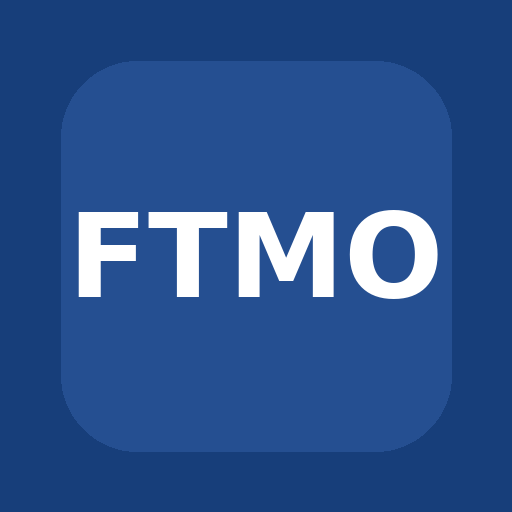
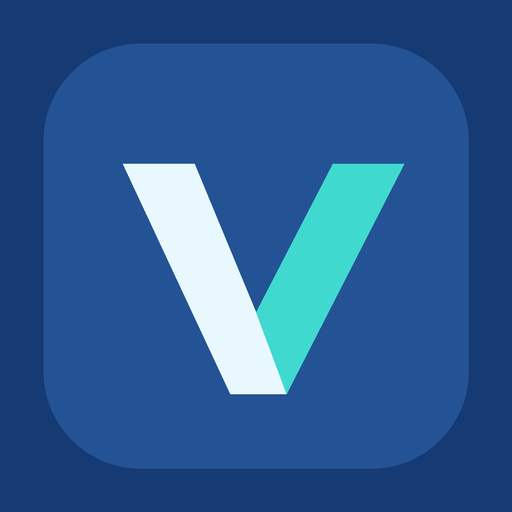
Add files via upload

Changed region(s): [[0.0625, 0.0625, 0.9375, 0.9375]]

diff --git a/index.html b/index.html
@@ -1,1 +1,1 @@
-<!doctype html><html lang="en"><head><meta charset="utf-8"><meta name="viewport" content="width=device-width,initial-scale=1,viewport-fit=cover"><meta name="theme-color" content="#10233f"><link rel="manifest" href="manifest.webmanifest"><link rel="icon" href="icon-192.png" sizes="192x192"><title>FTMO Quick Trade Calculator</title><style>:root{font-family:system-ui,-apple-system,Arial,sans-serif;color:#14243c;background:#eef3f9}*{box-sizing:border-box}body{margin:0;padding:14px}.app{max-width:510px;margin:auto;background:white;border-radius:18px;padding:18px;box-shadow:0 6px 26px #10233f18}h1{font-size:22px;margin:0 0 5px}small,.note{color:#596b7f}header{display:flex;justify-content:space-between;align-items:center;gap:8px;margin-bottom:16px}.tag{background:#e9f1ff;padding:7px 10px;border-radius:20px;font-size:12px;font-weight:800}.toggle,.presets{display:flex;gap:8px;margin:12px 0}.toggle button,.presets button{flex:1}button{border:1px solid #c9d5e5;background:#f5f8fd;color:#10233f;border-radius:10px;padding:12px 9px;font-weight:750;cursor:pointer}button.active{background:#173e7a;color:white;border-color:#173e7a}button:disabled{opacity:.45}label{display:block;font-weight:650;font-size:13px;margin:13px 0 6px}input,select{width:100%;border:1px solid #bfcbda;border-radius:10px;padding:13px;font-size:18px;background:white;color:#10233f}.two{display:grid;grid-template-columns:1fr 1fr;gap:12px}.results{background:#f0f5fb;border-radius:14px;padding:12px;margin-top:17px}.result{display:flex;align-items:center;justify-content:space-between;gap:10px;padding:10px 0;border-bottom:1px solid #d9e2ee}.result:last-child{border:0}.value{font-size:25px;font-weight:800;font-variant-numeric:tabular-nums}.copy{background:#17498f;color:white;border:0;min-width:104px}.metrics{display:grid;grid-template-columns:1fr 1fr;gap:10px;margin-top:15px}.metric{padding:12px;border:1px solid #e1e8f0;border-radius:12px}.metric b{display:block;font-size:20px;margin-top:5px}.green{color:#127044}.full{width:100%;margin-top:14px}.note{font-size:12px;line-height:1.5;margin:15px 0 0}.error{color:#b42318;font-size:13px;min-height:16px;margin-top:8px}#toast{position:fixed;bottom:24px;left:50%;transform:translateX(-50%);background:#14243c;color:white;padding:10px 18px;border-radius:24px;display:none;white-space:nowrap}body[data-theme="dark"]{background:#0b1220;color:#eaf0fb}body[data-theme="dark"] .app{background:#172235;box-shadow:0 6px 28px #0005}body[data-theme="dark"] small,body[data-theme="dark"] .note{color:#afbed1}body[data-theme="dark"] .tag{background:#263d60;color:#eaf0fb}body[data-theme="dark"] button{background:#26364e;border-color:#40516b;color:#f1f5ff}body[data-theme="dark"] button.active{background:#3972cb;border-color:#3972cb;color:white}body[data-theme="dark"] .copy{background:#3972cb;color:white;border-color:#3972cb}body[data-theme="dark"] input,body[data-theme="dark"] select{background:#101b2d;color:#f1f5ff;border-color:#465a74}body[data-theme="dark"] .results{background:#202f45}body[data-theme="dark"] .result{border-color:#40516b}body[data-theme="dark"] .metric{border-color:#40516b}body[data-theme="dark"] .green{color:#67dda2}body[data-theme="dark"] .error{color:#ff9d95}.theme-choice{display:flex;align-items:center;justify-content:space-between;gap:10px;margin:0 0 12px}.theme-choice small{font-weight:700}.theme-choice select{width:auto;font-size:14px;padding:8px 12px}body[data-theme="dark"] #toast{background:#eaf0fb;color:#172235}</style></head><body><main class="app"><div class="theme-choice"><small>BACKGROUND THEME</small><select id="theme" aria-label="Background theme" onchange="setTheme(this.value)"><option value="light">☀ White</option><option value="dark">☾ Dark</option></select></div><header><div><h1>FTMO Quick Trade Calculator</h1><small>Mobile • Copy & paste into MT5</small></div><span class="tag">EUR/USD</span></header><div class="toggle"><button id="buy" class="active" onclick="changeSide('buy')">BUY</button><button id="sell" onclick="changeSide('sell')">SELL</button></div><label for="risk">Risk amount (USD)</label><input id="risk" type="number" inputmode="decimal" min="0.01" step="any" value="20"><div class="presets"><button onclick="setRisk(10)">$10</button><button onclick="setRisk(20)">$20</button><button onclick="setRisk(50)">$50</button><button onclick="setRisk(100)">$100</button></div><label for="entry">Entry price</label><input id="entry" type="number" inputmode="decimal" min="0" step="0.00001" placeholder="Example: 1.16500"><div class="two"><div><label for="pips">Stop loss (pips)</label><input id="pips" type="number" inputmode="decimal" min="0.1" step="any" value="20"></div><div><label for="rr">Risk / Reward</label><select id="rr"><option value="1">1:1</option><option value="1.5">1:1.5</option><option value="2" selected>1:2</option><option value="3">1:3</option></select></div></div><div id="error" class="error" role="status"></div><section class="results"><small><b>MT5 COPY & PASTE</b></small><div class="result"><div><small>STOP LOSS</small><div class="value" id="sl">—</div></div><button class="copy" id="copySl" onclick="copyValue('sl')">Copy SL</button></div><div class="result"><div><small>TAKE PROFIT</small><div class="value" id="tp">—</div></div><button class="copy" id="copyTp" onclick="copyValue('tp')">Copy TP</button></div><div class="result"><div><small>LOT SIZE</small><div class="value" id="lots">—</div></div><button class="copy" id="copyLots" onclick="copyValue('lots')">Copy Lots</button></div></section><div class="metrics"><div class="metric"><small>Estimated loss at SL</small><b id="loss">—</b></div><div class="metric"><small>Potential profit at TP</small><b id="profit" class="green">—</b></div></div><button class="full" id="copyAll" onclick="copyTrade()">Copy Entire Trade</button><p class="note">For EUR/USD in a USD-denominated FTMO account, assuming approximately $10 per pip per standard lot and 0.01 lot increments. Estimates exclude commissions, spread, slippage and price movement. Actual loss can exceed your chosen risk. Verify the current market price, lot size, SL and TP in MT5 before placing an order. This calculator does not place trades.</p></main><div id="toast" role="status">Copied!</div><script>let side='buy';let current={};function setTheme(theme){document.body.dataset.theme=theme;document.getElementById('theme').value=theme;document.querySelector('meta[name=theme-color]').content=theme==='dark'?'#0b1220':'#eef3f9';try{localStorage.setItem('ftmo-theme',theme)}catch(e){}}try{setTheme(localStorage.getItem('ftmo-theme')==='dark'?'dark':'light')}catch(e){setTheme('light')}const $=id=>document.getElementById(id);function changeSide(s){side=s;$('buy').classList.toggle('active',s==='buy');$('sell').classList.toggle('active',s==='sell');calc()}function setRisk(n){$('risk').value=n;calc()}function calc(){const risk=Number($('risk').value),pips=Number($('pips').value),entry=Number($('entry').value),rr=Number($('rr').value);const valid=$('risk').value!==''&&$('pips').value!==''&&risk>0&&pips>0&&Number.isFinite(risk)&&Number.isFinite(pips);const hasEntry=$('entry').value!==''&&entry>0&&Number.isFinite(entry);const lots=valid?Math.floor((risk/(pips*10)+1e-10)*100)/100:0;const good=valid&&lots>=0.01;const sl=good&&hasEntry?entry+(side==='buy'?-1:1)*pips*0.0001:null;const tp=good&&hasEntry?entry+(side==='buy'?1:-1)*pips*rr*0.0001:null;const pricesValid=sl!==null&&tp!==null&&sl>0&&tp>0;current={risk,pips,entry,rr,lots,sl:pricesValid?sl.toFixed(5):null,tp:pricesValid?tp.toFixed(5):null};$('sl').textContent=current.sl??'—';$('tp').textContent=current.tp??'—';$('lots').textContent=good?lots.toFixed(2):'—';$('loss').textContent=good?'$'+(lots*pips*10).toFixed(2):'—';$('profit').textContent=good?'$'+(lots*pips*10*rr).toFixed(2):'—';$('error').textContent=!valid?'Enter a positive risk amount and stop-loss distance.':!good?'Risk too small for the minimum 0.01 lot size.':hasEntry&&!pricesValid?'Entry or calculated price is invalid.':'';['copySl','copyTp','copyAll'].forEach(id=>$(id).disabled=!pricesValid);$('copyLots').disabled=!good}async function copy(text){try{if(navigator.clipboard&&window.isSecureContext){await navigator.clipboard.writeText(text)}else{const el=document.createElement('textarea');el.value=text;el.style.position='fixed';el.style.opacity='0';document.body.appendChild(el);el.select();const ok=document.execCommand('copy');el.remove();if(!ok)throw Error('Clipboard blocked')}const toast=$('toast');toast.textContent='Copied!';toast.style.display='block';setTimeout(()=>toast.style.display='none',1400)}catch(e){window.prompt('Select and copy this value:',text)}}function copyValue(id){const val=id==='lots'?current.lots.toFixed(2):current[id];if(val)copy(val)}function copyTrade(){if(!current.sl||!current.tp)return;copy(`EUR/USD ${side.toUpperCase()}\nRisk budget: $${current.risk.toFixed(2)}\nEntry: ${current.entry.toFixed(5)}\nLots: ${current.lots.toFixed(2)}\nStop Loss: ${current.sl}\nTake Profit: ${current.tp}`)}['risk','entry','pips','rr'].forEach(id=>$(id).addEventListener('input',calc));calc();</script><script>if("serviceWorker" in navigator && location.protocol.startsWith("http")){navigator.serviceWorker.register("sw.js").catch(()=>{});}</script></body></html>
+<!doctype html><html lang="en"><head><meta charset="utf-8"><meta name="viewport" content="width=device-width,initial-scale=1,viewport-fit=cover"><meta name="theme-color" content="#10233f"><link rel="manifest" href="manifest.webmanifest"><link rel="icon" href="icon-192.png" sizes="192x192"><title>Vertix Trade Calculator</title><style>:root{font-family:system-ui,-apple-system,Arial,sans-serif;color:#14243c;background:#eef3f9}*{box-sizing:border-box}body{margin:0;padding:14px}.app{max-width:510px;margin:auto;background:white;border-radius:18px;padding:18px;box-shadow:0 6px 26px #10233f18}h1{font-size:22px;margin:0 0 5px}small,.note{color:#596b7f}header{display:flex;justify-content:space-between;align-items:center;gap:8px;margin-bottom:16px}.tag{background:#e9f1ff;padding:7px 10px;border-radius:20px;font-size:12px;font-weight:800}.toggle,.presets{display:flex;gap:8px;margin:12px 0}.toggle button,.presets button{flex:1}button{border:1px solid #c9d5e5;background:#f5f8fd;color:#10233f;border-radius:10px;padding:12px 9px;font-weight:750;cursor:pointer}button.active{background:#173e7a;color:white;border-color:#173e7a}button:disabled{opacity:.45}label{display:block;font-weight:650;font-size:13px;margin:13px 0 6px}input,select{width:100%;border:1px solid #bfcbda;border-radius:10px;padding:13px;font-size:18px;background:white;color:#10233f}.two{display:grid;grid-template-columns:1fr 1fr;gap:12px}.results{background:#f0f5fb;border-radius:14px;padding:12px;margin-top:17px}.result{display:flex;align-items:center;justify-content:space-between;gap:10px;padding:10px 0;border-bottom:1px solid #d9e2ee}.result:last-child{border:0}.value{font-size:25px;font-weight:800;font-variant-numeric:tabular-nums}.copy{background:#17498f;color:white;border:0;min-width:104px}.metrics{display:grid;grid-template-columns:1fr 1fr;gap:10px;margin-top:15px}.metric{padding:12px;border:1px solid #e1e8f0;border-radius:12px}.metric b{display:block;font-size:20px;margin-top:5px}.green{color:#127044}.full{width:100%;margin-top:14px}.note{font-size:12px;line-height:1.5;margin:15px 0 0}.error{color:#b42318;font-size:13px;min-height:16px;margin-top:8px}#toast{position:fixed;bottom:24px;left:50%;transform:translateX(-50%);background:#14243c;color:white;padding:10px 18px;border-radius:24px;display:none;white-space:nowrap}body[data-theme="dark"]{background:#0b1220;color:#eaf0fb}body[data-theme="dark"] .app{background:#172235;box-shadow:0 6px 28px #0005}body[data-theme="dark"] small,body[data-theme="dark"] .note{color:#afbed1}body[data-theme="dark"] .tag{background:#263d60;color:#eaf0fb}body[data-theme="dark"] button{background:#26364e;border-color:#40516b;color:#f1f5ff}body[data-theme="dark"] button.active{background:#3972cb;border-color:#3972cb;color:white}body[data-theme="dark"] .copy{background:#3972cb;color:white;border-color:#3972cb}body[data-theme="dark"] input,body[data-theme="dark"] select{background:#101b2d;color:#f1f5ff;border-color:#465a74}body[data-theme="dark"] .results{background:#202f45}body[data-theme="dark"] .result{border-color:#40516b}body[data-theme="dark"] .metric{border-color:#40516b}body[data-theme="dark"] .green{color:#67dda2}body[data-theme="dark"] .error{color:#ff9d95}.theme-choice{display:flex;align-items:center;justify-content:space-between;gap:10px;margin:0 0 12px}.theme-choice small{font-weight:700}.theme-choice select{width:auto;font-size:14px;padding:8px 12px}body[data-theme="dark"] #toast{background:#eaf0fb;color:#172235}</style></head><body><main class="app"><div class="theme-choice"><small>BACKGROUND THEME</small><select id="theme" aria-label="Background theme" onchange="setTheme(this.value)"><option value="light">☀ White</option><option value="dark">☾ Dark</option></select></div><header><div><h1>Vertix Trade Calculator</h1><small>Mobile • Copy & paste into MT5</small></div><span class="tag">EUR/USD</span></header><div class="toggle"><button id="buy" class="active" onclick="changeSide('buy')">BUY</button><button id="sell" onclick="changeSide('sell')">SELL</button></div><label for="risk">Risk amount (USD)</label><input id="risk" type="number" inputmode="decimal" min="0.01" step="any" value="20"><div class="presets"><button onclick="setRisk(10)">$10</button><button onclick="setRisk(20)">$20</button><button onclick="setRisk(50)">$50</button><button onclick="setRisk(100)">$100</button></div><label for="entry">Entry price</label><input id="entry" type="number" inputmode="decimal" min="0" step="0.00001" placeholder="Example: 1.16500"><div class="two"><div><label for="pips">Stop loss (pips)</label><input id="pips" type="number" inputmode="decimal" min="0.1" step="any" value="20"></div><div><label for="rr">Risk / Reward</label><select id="rr"><option value="1">1:1</option><option value="1.5">1:1.5</option><option value="2" selected>1:2</option><option value="3">1:3</option></select></div></div><div id="error" class="error" role="status"></div><section class="results"><small><b>MT5 COPY & PASTE</b></small><div class="result"><div><small>STOP LOSS</small><div class="value" id="sl">—</div></div><button class="copy" id="copySl" onclick="copyValue('sl')">Copy SL</button></div><div class="result"><div><small>TAKE PROFIT</small><div class="value" id="tp">—</div></div><button class="copy" id="copyTp" onclick="copyValue('tp')">Copy TP</button></div><div class="result"><div><small>LOT SIZE</small><div class="value" id="lots">—</div></div><button class="copy" id="copyLots" onclick="copyValue('lots')">Copy Lots</button></div></section><div class="metrics"><div class="metric"><small>Estimated loss at SL</small><b id="loss">—</b></div><div class="metric"><small>Potential profit at TP</small><b id="profit" class="green">—</b></div></div><button class="full" id="copyAll" onclick="copyTrade()">Copy Entire Trade</button><p class="note">For EUR/USD in a USD-denominated trading account, assuming approximately $10 per pip per standard lot and 0.01 lot increments. Estimates exclude commissions, spread, slippage and price movement. Actual loss can exceed your chosen risk. Verify the current market price, lot size, SL and TP in MT5 before placing an order. This calculator does not place trades.</p></main><div id="toast" role="status">Copied!</div><script>let side='buy';let current={};function setTheme(theme){document.body.dataset.theme=theme;document.getElementById('theme').value=theme;document.querySelector('meta[name=theme-color]').content=theme==='dark'?'#0b1220':'#eef3f9';try{localStorage.setItem('ftmo-theme',theme)}catch(e){}}try{setTheme(localStorage.getItem('ftmo-theme')==='dark'?'dark':'light')}catch(e){setTheme('light')}const $=id=>document.getElementById(id);function changeSide(s){side=s;$('buy').classList.toggle('active',s==='buy');$('sell').classList.toggle('active',s==='sell');calc()}function setRisk(n){$('risk').value=n;calc()}function calc(){const risk=Number($('risk').value),pips=Number($('pips').value),entry=Number($('entry').value),rr=Number($('rr').value);const valid=$('risk').value!==''&&$('pips').value!==''&&risk>0&&pips>0&&Number.isFinite(risk)&&Number.isFinite(pips);const hasEntry=$('entry').value!==''&&entry>0&&Number.isFinite(entry);const lots=valid?Math.floor((risk/(pips*10)+1e-10)*100)/100:0;const good=valid&&lots>=0.01;const sl=good&&hasEntry?entry+(side==='buy'?-1:1)*pips*0.0001:null;const tp=good&&hasEntry?entry+(side==='buy'?1:-1)*pips*rr*0.0001:null;const pricesValid=sl!==null&&tp!==null&&sl>0&&tp>0;current={risk,pips,entry,rr,lots,sl:pricesValid?sl.toFixed(5):null,tp:pricesValid?tp.toFixed(5):null};$('sl').textContent=current.sl??'—';$('tp').textContent=current.tp??'—';$('lots').textContent=good?lots.toFixed(2):'—';$('loss').textContent=good?'$'+(lots*pips*10).toFixed(2):'—';$('profit').textContent=good?'$'+(lots*pips*10*rr).toFixed(2):'—';$('error').textContent=!valid?'Enter a positive risk amount and stop-loss distance.':!good?'Risk too small for the minimum 0.01 lot size.':hasEntry&&!pricesValid?'Entry or calculated price is invalid.':'';['copySl','copyTp','copyAll'].forEach(id=>$(id).disabled=!pricesValid);$('copyLots').disabled=!good}async function copy(text){try{if(navigator.clipboard&&window.isSecureContext){await navigator.clipboard.writeText(text)}else{const el=document.createElement('textarea');el.value=text;el.style.position='fixed';el.style.opacity='0';document.body.appendChild(el);el.select();const ok=document.execCommand('copy');el.remove();if(!ok)throw Error('Clipboard blocked')}const toast=$('toast');toast.textContent='Copied!';toast.style.display='block';setTimeout(()=>toast.style.display='none',1400)}catch(e){window.prompt('Select and copy this value:',text)}}function copyValue(id){const val=id==='lots'?current.lots.toFixed(2):current[id];if(val)copy(val)}function copyTrade(){if(!current.sl||!current.tp)return;copy(`EUR/USD ${side.toUpperCase()}\nRisk budget: $${current.risk.toFixed(2)}\nEntry: ${current.entry.toFixed(5)}\nLots: ${current.lots.toFixed(2)}\nStop Loss: ${current.sl}\nTake Profit: ${current.tp}`)}['risk','entry','pips','rr'].forEach(id=>$(id).addEventListener('input',calc));calc();</script><script>if("serviceWorker" in navigator && location.protocol.startsWith("http")){navigator.serviceWorker.register("sw.js").catch(()=>{});}</script></body></html>

diff --git a/sw.js b/sw.js
@@ -1,1 +1,1 @@
-const CACHE='ftmo-v1';self.addEventListener('install',e=>{e.waitUntil(caches.open(CACHE).then(c=>c.addAll(['./','index.html','manifest.webmanifest','icon-192.png','icon-512.png'])));self.skipWaiting()});self.addEventListener('activate',e=>{e.waitUntil(self.clients.claim())});self.addEventListener('fetch',e=>{if(e.request.method==='GET')e.respondWith(fetch(e.request).catch(()=>caches.match(e.request)))});
+const CACHE='vertix-v2';self.addEventListener('install',e=>{e.waitUntil(caches.open(CACHE).then(c=>c.addAll(['./','index.html','manifest.webmanifest','icon-192.png','icon-512.png'])));self.skipWaiting()});self.addEventListener('activate',e=>{e.waitUntil(self.clients.claim())});self.addEventListener('fetch',e=>{if(e.request.method==='GET')e.respondWith(fetch(e.request).catch(()=>caches.match(e.request)))});
